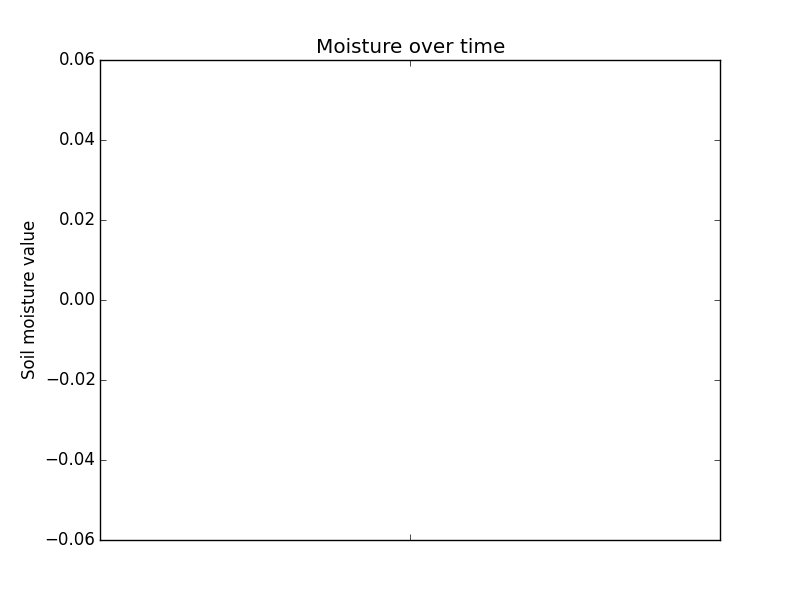
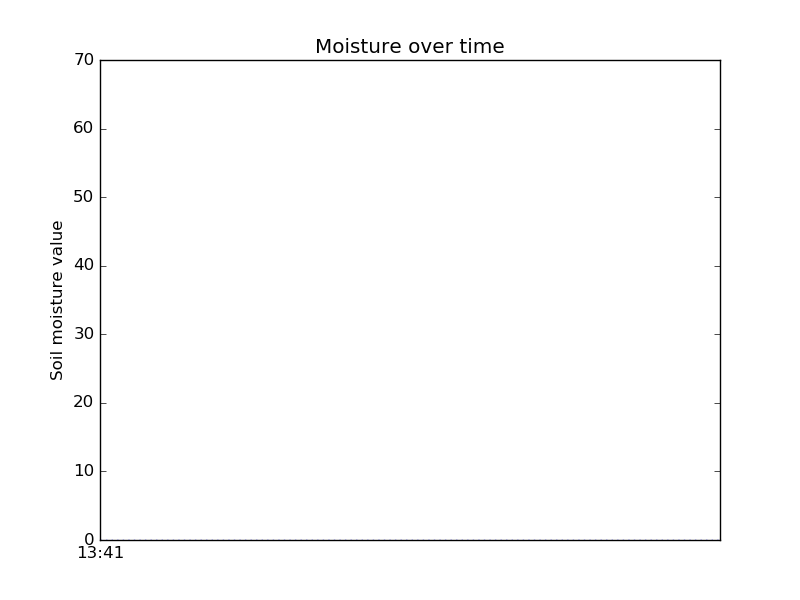
added \n

diff --git a/viktor/Plants.py b/viktor/Plants.py
@@ -34,7 +34,7 @@ def test():
             if(value > HIGHEST_MOISTURE_LEVEL):
                 activatePump(s)
             bt.closeSocket(s)
-        time.sleep(20)
+        time.sleep(5)
   #print "Moisture 1: " ,value
 #  value2 = getTemperature(s)
  # print "Temperature: ", value2
@@ -53,6 +53,8 @@ def writeToFileAndPlot(data, fileName):
   sendStr += str(strftime("%H:%M", gmtime()))
   sendStr += " "
   sendStr += str(data)
+  sendStr += "\n"
+
   f.writelines(sendStr) # python will convert \n to os.linesep
   f.close() # you can omit in most cases as the destructor will call it
   pl.plot(0,fileName)
